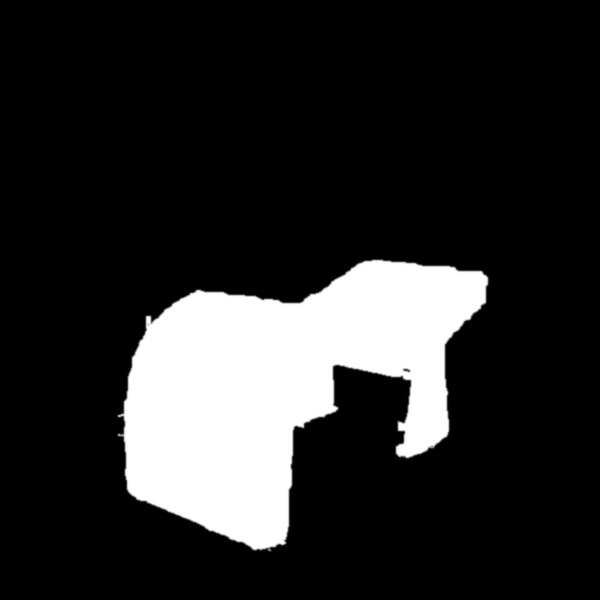
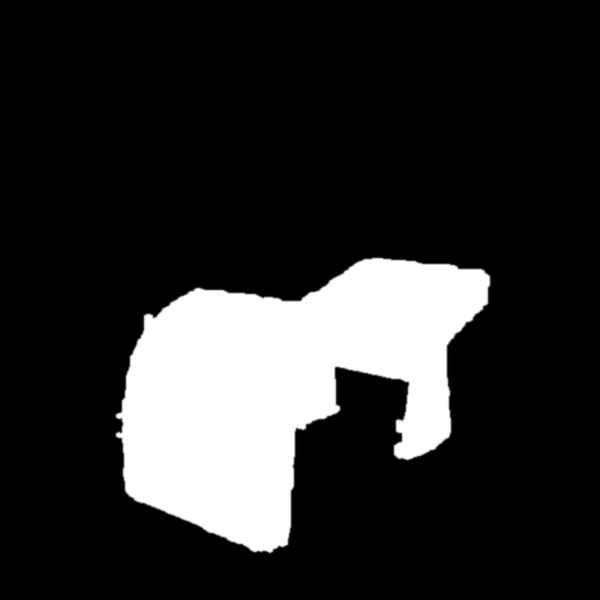
Arreglo de colores que se veían mal
- Respaldo Flor: foto amarilla y clara en vez de la violeta oscura (dejaba bordes violetas)
- Máscaras 2 px más grandes para que no quede el contorno del color original
- Negros y oscuros con brillo mínimo para que se vea la textura
- Sillón Labios: recorte mejorado
- mascara.py: --sin-sombra y --quitar

Claude-Session: https://claude.ai/code/session_01Fsko9R5tahZAyiPkgmkf9f

diff --git a/src/data/productos.ts b/src/data/productos.ts
@@ -95,8 +95,8 @@ export const PRODUCTOS: Producto[] = [
       { imagen: foto('respaldo-flor/05.webp'), tela: 'pana', color: 'negro' },
       { imagen: foto('respaldo-flor/06.webp'), tela: 'pana', color: 'rojo' },
       { imagen: foto('respaldo-flor/07.webp'), tela: 'pana', color: 'verde-esmeralda' },
-      { imagen: foto('respaldo-flor/08.webp'), tela: 'pana', color: 'violeta', mascara: foto('respaldo-flor/08-mascara.png') },
-      { imagen: foto('respaldo-flor/09.webp'), tela: 'pana', color: 'amarillo' },
+      { imagen: foto('respaldo-flor/08.webp'), tela: 'pana', color: 'violeta' },
+      { imagen: foto('respaldo-flor/09.webp'), tela: 'pana', color: 'amarillo', mascara: foto('respaldo-flor/09-mascara.png') },
       { imagen: foto('respaldo-flor/10.webp'), tela: 'pana', color: 'lila' },
       { imagen: foto('respaldo-flor/11.webp'), tela: 'pana', color: 'naranja' },
       { imagen: foto('respaldo-flor/12.webp'), tela: 'pana', color: 'natural' },

diff --git a/src/scripts/colorear.ts b/src/scripts/colorear.ts
@@ -89,7 +89,11 @@ export async function prepararColoreo(canvas: HTMLCanvasElement, srcFoto: string
 
   return (hex: string) => {
     const n = parseInt(hex.slice(1), 16);
-    let destino = [(n >> 16) & 255, (n >> 8) & 255, n & 255].map((c) => lineal(c / 255) * exposicion);
+    // La pana y el eco-cuero siempre devuelven un poco de brillo, aunque sean negros:
+    // sin esto un color muy oscuro queda como una mancha sin textura
+    const lineales = [(n >> 16) & 255, (n >> 8) & 255, n & 255].map((c) => lineal(c / 255));
+    const piso = 0.03 * (1 - luminancia(hex)) ** 4;
+    let destino = lineales.map((c) => (c + piso) * exposicion);
     // En colores claros, que las zonas más iluminadas no se quemen a blanco y se pierda la textura
     const tope = Math.max(...destino) * brillo(yDe(p95) / yRef);
     if (tope > 0.92) destino = destino.map((c) => (c * 0.92) / tope);

diff --git a/scripts/mascara.py b/scripts/mascara.py
@@ -14,6 +14,8 @@ Opciones:
   --piezas 1          quedarse también con piezas separadas de al menos esta fracción de la mayor
                       (ej. 0.05 para un mostrador con puffs y silla)
   --zona x0,y0,x1,y1  limitar a un recuadro (fracciones de 0 a 1) si se cuela algo del fondo
+  --quitar x0,y0,x1,y1  sacar un recuadro (ej. almohadones estampados); se puede repetir
+  --sin-sombra        no sumar el borde oscuro (usalo si la pared de atrás es oscura)
 """
 import argparse
 import cv2
@@ -28,6 +30,8 @@ ap.add_argument('--tol', type=int, default=14)
 ap.add_argument('--cierre', type=int, default=5)
 ap.add_argument('--piezas', type=float, default=1)
 ap.add_argument('--zona')
+ap.add_argument('--sin-sombra', action='store_true')
+ap.add_argument('--quitar', action='append', default=[])
 a = ap.parse_args()
 
 img = cv2.imread(a.foto, cv2.IMREAD_COLOR)
@@ -52,6 +56,9 @@ if a.zona:
     zona[int(y0 * alto):int(y1 * alto), int(x0 * ancho):int(x1 * ancho)] = 255
 else:
     zona[:] = 255
+for q in a.quitar:
+    x0, y0, x1, y1 = (float(t) for t in q.split(','))
+    zona[int(y0 * alto):int(y1 * alto), int(x0 * ancho):int(x1 * ancho)] = 0
 m &= zona
 
 # Limpieza: quedarse con la pieza más grande (y las que pidan --piezas), cerrar huequitos
@@ -67,9 +74,11 @@ if a.cierre > 5:
     cv2.floodFill(relleno, np.zeros((alto + 2, ancho + 2), np.uint8), (0, 0), 255)
     m = m | cv2.bitwise_not(relleno)
 # Sumar el borde en sombra (muy oscuro, pierde el tono) pegado a la tela
-for _ in range(3):
+for _ in range(0 if a.sin_sombra else 3):
     borde = cv2.dilate(m, np.ones((5, 5), np.uint8)) & ~m
     m = m | (borde & np.where(v < 60, 255, 0).astype(np.uint8) & zona)
+# Agrandar 2 px para que no quede un contorno del color original
+m = cv2.dilate(m, cv2.getStructuringElement(cv2.MORPH_ELLIPSE, (5, 5))) & zona
 # Bordes suaves
 m = cv2.GaussianBlur(m, (0, 0), 0.8)
 cv2.imwrite(a.salida, m)
